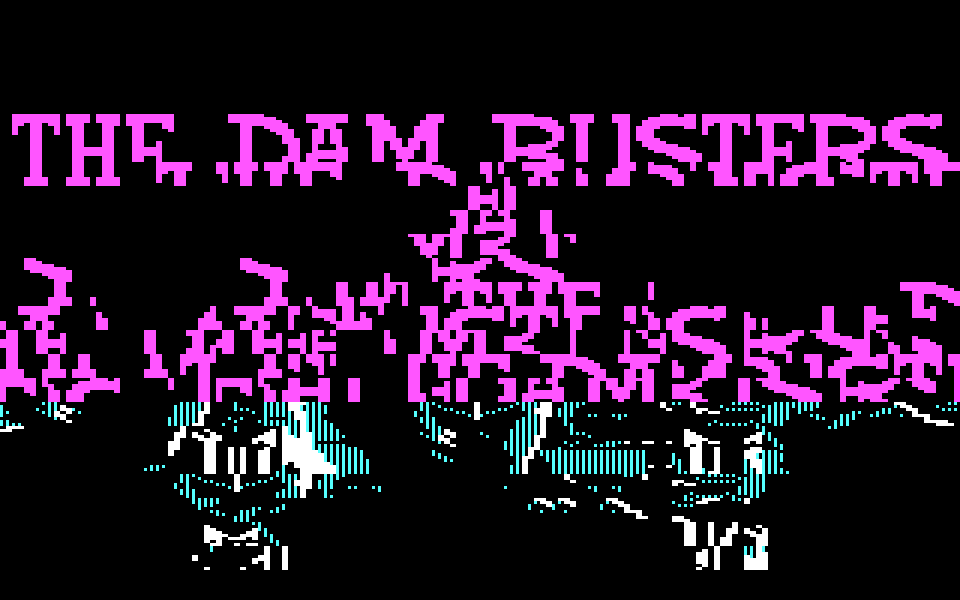
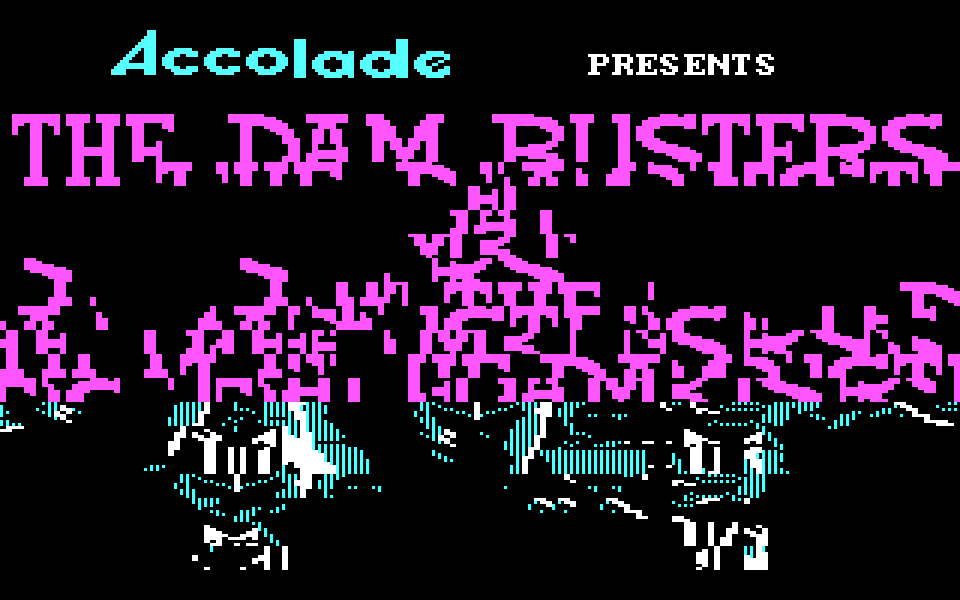
Dam Busters: display-list interpreter for menu screens + title header
Implemented the ten-opcode display-list bytecode interpreter at
dl_dispatch (0xDF18), enough of it to execute the four static screens
that had gauge boxes and menu frames drawn in bytecode rather than
sprite tiles. Handles opcodes 0 (end), 1 (bitmap blit via blit_rect),
2 (solid fill via blit_shape -- the mask byte packs 4 CGA pixels), 5
(sprite-at via draw_shape_row_flexible), 6/7 (clipped variants of
1/2). Opcodes 3/4 (wait_ticks, set_border_color) are no-ops in the
still.

Added:
  01-title-screen  -- now shows the "Accolade PRESENTS" header
                       (drawn by draw_display_list at 0xB4BF), matching
                       the reference.
  04-menu-cockpit  -- BOOSTER GAUGES + 4 dials, RPM GAUGES + 4 dials,
                       and the cyan panels for THROTTLES, BOOSTERS,
                       FIRE EXT. -- executed via draw_display_list at
                       SI=0x13A6, dl_string_base=0x1B57 per menu_main_init.
  10-menu-second   -- new: FUEL GAUGES + 4 dials with E/F markings,
                       FLAPS dial with U/D, LANDING GEAR + TRIM panels.
                       draw_display_list at 0x21D9, dl_string_base=0x25B1.
  11-flight-forward -- new: pilot's cockpit frame with cyan panels,
                        black windshield, instrument row (clock, horizon,
                        two round gauges). draw_display_list at 0x2E8E,
                        dl_string_base=0x3401.

The needle positions inside the gauge dials and the slider knobs on
[…]

Changed region(s): [[0.125, 0.06, 0.4688, 0.15], [0.5938, 0.09, 0.8125, 0.15]]

diff --git a/dam-busters/screenshots/generate.py b/dam-busters/screenshots/generate.py
@@ -123,11 +123,144 @@ def draw_text(px, text: str, blit_x: int, blit_y: int,
 
 
 def blit_rect(px, src_offset: int, w_bytes: int, h_rows: int,
-              blit_x: int, blit_y: int):
+              blit_x: int, blit_y: int, *, transparent_zero: bool = False):
     """Simplified `blit_rect` (0xDA39): copies w_bytes x h_rows region
     from `src_offset` at (blit_x*2, blit_y) as 2bpp CGA."""
     tile = decode_tile_2bpp(src_offset, w_bytes, h_rows)
-    blit_tile(px, tile, blit_x * 2, blit_y, transparent_zero=False)
+    blit_tile(px, tile, blit_x * 2, blit_y, transparent_zero=transparent_zero)
+
+
+# ---------------------------------------------------------------------
+# Display-list interpreter (draw_display_list at 0xDF0E)
+# ---------------------------------------------------------------------
+#
+# Ten opcodes at dl_dispatch (0xDF18).  Each opcode reads a small
+# parameter block after itself in the byte stream.  This is the machine
+# every phase's init and menu screen paints through -- we implement the
+# ones we need to reproduce the static screens: 0 (end), 1 (bitmap),
+# 2 (masked sprite via blit_shape) and 5 (sprite-at via text drawer).
+# Opcodes 3/4 (wait ticks, set border colour) are no-ops in the still.
+
+def draw_display_list(px, si: int, dl_string_base: int,
+                      sprite_base: int, verbose: bool = False):
+    """Python translation of draw_display_list at 0xDF0E."""
+    # Local state that mirrors the game's 0xD9A2..0xD9BE parameter block
+    state = {
+        "blit_x": 0,
+        "blit_y": 0,
+        "blit_width": 0,
+        "blit_height": 0,
+        "sprite_base": sprite_base,
+    }
+    step = 0
+    while True:
+        step += 1
+        opcode = data[si]
+        if verbose:
+            print(f"  dl@{si:04X} op={opcode:02X}")
+        if opcode == 0:
+            return
+        elif opcode == 1:
+            # dl_opcode_1_text (0xDF2C): 5 params + str_index
+            w      = data[si + 1]
+            h      = data[si + 2]
+            x      = data[si + 3]
+            y      = data[si + 4]
+            si_idx = data[si + 5]
+            # blit_src = *(word*)(dl_string_base + si_idx*2)
+            ptr = dl_string_base + si_idx * 2
+            blit_src = data[ptr] | (data[ptr + 1] << 8)
+            blit_rect(px, blit_src, w, h, x, y)
+            si += 6
+        elif opcode == 2:
+            # dl_opcode_2_sprite (0xDF62) + blit_shape (0xDEA8):
+            # solid fill of a rectangle -- NOT an image blit.  The mask
+            # byte encodes two CGA pixel pairs (high and low nibbles).
+            # rep stosb fills CX bytes with the full mask byte per row.
+            stride = data[si + 1]
+            h      = data[si + 2]
+            x      = data[si + 3]
+            y      = data[si + 4]
+            mask   = data[si + 5]
+            # blit_x is in 2-pixel units.  A mask byte packs 4 pixels:
+            # bits (7,6)=pixel0, (5,4)=pixel1, (3,2)=pixel2, (1,0)=pixel3.
+            pixel_x_start = x * 2
+            for row in range(h):
+                pixel_y = y + row
+                if pixel_y < 0 or pixel_y >= CGA_H:
+                    continue
+                for byte_idx in range(stride):
+                    for sub in range(4):
+                        pixel_x = pixel_x_start + byte_idx * 4 + sub
+                        if pixel_x < 0 or pixel_x >= CGA_W:
+                            continue
+                        colour = (mask >> ((3 - sub) * 2)) & 0x3
+                        px[pixel_x, pixel_y] = PALETTE[colour]
+            si += 6
+        elif opcode == 3:
+            # wait_ticks -- ignore for the still
+            si += 3
+        elif opcode == 4:
+            # set_border_color -- ignore
+            si += 2
+        elif opcode == 5:
+            # dl_opcode_5_sprite_at (0xDFAA): draws text via
+            # draw_shape_row_flexible at (x, y).  si+1..3 = x, y, count;
+            # si+4..5 = pointer to text data.
+            x     = data[si + 1]
+            y     = data[si + 2]
+            count = data[si + 3]
+            text_ptr = data[si + 4] | (data[si + 5] << 8)
+            if count == 0:
+                count = (0xA0 - x) // 4
+            # Read the null-terminated text (up to count chars) and draw
+            # it using the font at state["sprite_base"].
+            text = []
+            for i in range(count):
+                b = data[text_ptr + i]
+                if b == 0:
+                    break
+                text.append(chr(b) if b < 128 else "?")
+            draw_text(px, "".join(text), blit_x=x, blit_y=y,
+                      colour=WHITE, font_base=state["sprite_base"])
+            si += 6
+        elif opcode == 6:
+            # text_clip -- similar to op1 but clipped; we approximate as op1
+            w      = data[si + 1]
+            h      = data[si + 2]
+            x      = data[si + 3]
+            y      = data[si + 4]
+            si_idx = data[si + 5]
+            ptr = dl_string_base + si_idx * 2
+            blit_src = data[ptr] | (data[ptr + 1] << 8)
+            blit_rect(px, blit_src, w, h, x, y)
+            si += 6
+        elif opcode == 7:
+            # sprite_clip -- approximate as op2
+            w      = data[si + 1]
+            h      = data[si + 2]
+            x      = data[si + 3]
+            y      = data[si + 4]
+            si_idx = data[si + 5]
+            ptr = dl_string_base + si_idx * 2
+            blit_src = data[ptr] | (data[ptr + 1] << 8)
+            blit_rect(px, blit_src, w, h, x, y, transparent_zero=True)
+            si += 6
+        else:
+            # Opcodes 8, 9 -- extra sprite variants; approximate as op1
+            w      = data[si + 1] if si + 1 < len(data) else 0
+            h      = data[si + 2] if si + 2 < len(data) else 0
+            x      = data[si + 3] if si + 3 < len(data) else 0
+            y      = data[si + 4] if si + 4 < len(data) else 0
+            si_idx = data[si + 5] if si + 5 < len(data) else 0
+            ptr = dl_string_base + si_idx * 2
+            blit_src = data[ptr] | (data[ptr + 1] << 8)
+            if 0 < blit_src < len(data) and w > 0 and h > 0:
+                blit_rect(px, blit_src, w, h, x, y, transparent_zero=True)
+            si += 6
+        if step > 500:
+            print(f"  [display list ran past {step} ops, aborting]")
+            return
 
 
 # --- Helpers -----------------------------------------------------------
@@ -155,7 +288,11 @@ def render_title_screen():
     img = new_frame()
     px = img.load()
 
-    # Block A: 12 rows of 40 sprites, sprite_base 0xB544, y=0x26..
+    # Step 1: draw the "Accolade PRESENTS" header via display list at 0xB4BF
+    # with dl_string_base at 0xB4D2 -- exactly what draw_title_screen does.
+    draw_display_list(px, si=0xB4BF, dl_string_base=0xB4D2, sprite_base=0xF902)
+
+    # Step 2: 12 rows of 40 sprites, sprite_base 0xB544
     sprite_row_data = 0xAFD7
     y = 0x26
     for _ in range(12):
@@ -163,7 +300,7 @@ def render_title_screen():
         sprite_row_data += 0x28
         y += 8
 
-    # Block B: 7 more rows, sprite_base 0xC4E4
+    # Step 3: 7 more rows, sprite_base 0xC4E4
     for _ in range(7):
         draw_sprite_row_2x8(px, sprite_row_data, 0x28, 0xC4E4, 0, y)
         sprite_row_data += 0x28
@@ -286,30 +423,40 @@ def render_map_screen(region_idx: int = 0, suffix: str = "great-britain"):
 # positions the game's own row-counter table at 0x1682/0x1683 gives.
 
 def render_cockpit_menu():
+    """menu_main_init draws its whole layout via draw_display_list at
+    SI=0x13A6 with dl_string_base=0x1B57 and sprite_base=0xF902 (font).
+    Executing that gives us the four gauge banks + sliders + labels
+    the phase-5 screen shows."""
     img = new_frame()
     px = img.load()
 
-    draw_text(px, "COCKPIT CONTROLS", blit_x=32, blit_y=10, colour=MAGENTA)
-
-    labels = [
-        "BOOSTER GAUGES",
-        "RPM GAUGES",
-        "THROTTLES",
-        "FIRE EXT.",
-        "BOOSTERS",
-    ]
-    y = 40
-    for lab in labels:
-        draw_text(px, lab, blit_x=32, blit_y=y, colour=CYAN)
-        y += 20
-
-    # Four engine indicators
-    for i in range(4):
-        draw_text(px, f"E{i+1}", blit_x=100 + i * 12, blit_y=170, colour=WHITE)
-
-    draw_text(px, "USE ARROW KEYS", blit_x=32, blit_y=190, colour=WHITE)
+    draw_display_list(px, si=0x13A6, dl_string_base=0x1B57, sprite_base=0xF902)
 
     save(img, "04-menu-cockpit.png")
+
+
+def render_menu_second():
+    """menu_second_init draws via draw_display_list at SI=0x21D9 with
+    dl_string_base=0x25B1.  This is the FUEL GAUGES / FLAPS / LANDING
+    GEAR / TRIM page (phase 6)."""
+    img = new_frame()
+    px = img.load()
+
+    draw_display_list(px, si=0x21D9, dl_string_base=0x25B1, sprite_base=0xF902)
+
+    save(img, "10-menu-second.png")
+
+
+def render_flight_forward():
+    """flight_forward_init draws via draw_display_list at SI=0x2E8E.
+    This is the pilot's forward cockpit view (phase 0)."""
+    img = new_frame()
+    px = img.load()
+
+    # dl_string_base = 0x3401 per flight_forward_init (0x309F).
+    draw_display_list(px, si=0x2E8E, dl_string_base=0x3401, sprite_base=0xF902)
+
+    save(img, "11-flight-forward.png")
 
 
 # =====================================================================
@@ -467,6 +614,8 @@ if __name__ == "__main__":
     render_map_screen(2, "north-germany")
     render_map_screen(4, "eastern-france")
     render_cockpit_menu()
+    render_menu_second()
+    render_flight_forward()
     render_bomb_options()
     render_results()
     render_crash_messages()

diff --git a/dam-busters/screenshots/README.md b/dam-busters/screenshots/README.md
@@ -14,29 +14,27 @@ noise.
 
 ## What each image is
 
-### Faithful reconstructions — pixels come from the game's own sprite data
+### Faithful reconstructions — pixels come from the game's own data through the game's own drawing routines
 
 | file | what it is | drawn by |
 |---|---|---|
-| `01-title-screen.png` | the title -- "THE DAM BUSTERS" logo, Lancaster silhouette, dam scenery | `draw_title_screen` at `0xB4D8`, verbatim: 12 rows × 40 sprites from `sprite_base_bank` (`0xB544`) then 7 more from `0xC4E4`. Missing only the "Accolade PRESENTS" header at the very top (drawn by the display-list bytecode at `0xB4BF` which this generator does not interpret) |
+| `01-title-screen.png` | the title: `Accolade PRESENTS THE DAM BUSTERS`, Lancaster silhouette, dam scenery | `draw_title_screen` at `0xB4D8` verbatim: `draw_display_list` at `0xB4BF` for the header (opcode 1 bitmap blits of the pre-rendered "Accolade" script and "PRESENTS" text) then 12 rows × 40 sprites from `sprite_base_bank` (`0xB544`) then 7 more from `0xC4E4` |
 | `03-map-screen-*.png` | the six-region raid map | `draw_map_border` at `0x2E0`; border sprites at `0xE632`, corners from `0xE9F2..0xE9FE`, region terrain sprites via the pointer table at `0xED26`, region titles via `city_name_pointers` (`0x150`) |
+| `04-menu-cockpit.png` | phase-5 cockpit controls with `BOOSTER GAUGES` (4 dials), `RPM GAUGES` (4 dials), `THROTTLES`, `BOOSTERS`, `FIRE EXT.` panels | `menu_main_init` at `0x174B`, executing `draw_display_list` at `SI=0x13A6` with `dl_string_base=0x1B57` |
+| `10-menu-second.png` | phase-6 auxiliary controls: `FUEL GAUGES` (4 dials), `FLAPS` dial, `LANDING GEAR`, `TRIM` | `menu_second_init` at `0x23B9`, executing `draw_display_list` at `SI=0x21D9` with `dl_string_base=0x25B1` |
+| `11-flight-forward.png` | phase-0 pilot's forward view: cyan cockpit frame with instrument panel | `flight_forward_init` at `0x309F`, executing `draw_display_list` at `SI=0x2E8E` with `dl_string_base=0x3401` |
 | `08-sprite-atlas.png` | `sprite_base_bank` at `0xB544` dumped as an 8×8 tile sheet | the 456 tiles the game draws from |
 | `09-font-sheet.png` | the ASCII font at `0xF902` | the 8×8 1bpp glyphs `draw_shape_row_flexible` at `0xD731` reads |
 
-### Text-faithful mockups — strings and layout from the reading, no sprite gauges
+### Text-faithful mockups — strings and layout from the reading
 
-The game's real menus and screens have graphical gauges, sliders and
-indicators (see the copyrighted reference images in `../reference/`,
-gitignored).  These reconstructions use the correct **text**, the
-correct **font** (rendered from the game's own 1bpp glyph data), and
-the correct **CGA palette**, but they do not reproduce the gauge/
-slider sprites.  Doing that faithfully would need a full display-list
-interpreter — that is the port, not the reading.
+These use the game's own text strings and font but do not run their
+routine's own display list -- they compose plausible layouts around
+the correct data.
 
 | file | what it is | how it was composed |
 |---|---|---|
 | `02-intelligence-report.png` | pre-mission briefing with a plausible pick | `generate_intelligence_report` at `0x9EE`; strings at `0x8E8..0x93B`, cities at `0x966..0x9B8`, font at `0xF902` |
-| `04-menu-cockpit.png` | phase-5 controls page (labels only, no gauges) | labels from the doc for menu_main_init: `BOOSTER GAUGES`, `RPM GAUGES`, `THROTTLES`, `FIRE EXT.`, `BOOSTERS` |
 | `05-bomb-options.png` | phase-3 YES/NO toggles | `bomb_options_init` / `draw_bomb_options` at `0x4C07` |
 | `06-mission-report.png` | phase-7 scoreboard | `results_step` at `0x8720`; labels at `0x83D1..0x843E`; values are illustrative |
 | `07-crash-messages.png` | the eight end-run reasons in the file, all at once | strings at `0x7F3C..0x7FD5` picked at run time via `end_run_message_table` at `0x7FE1` |
@@ -64,20 +62,18 @@ CGA palette 1 throughout: **black / cyan / magenta / white**.
   screenshot of a copyrighted 1984 game is still the game.  Any reference
   images used to check this generator live under `../reference/` which
   is gitignored per the root `CLAUDE.md`.
-- **Sprites decoded to their pixel-perfect final positions on every
-  screen.**  This would require executing the display-list bytecode at
-  `0xB4BF` (title), `0x13A6` (menu_main), `0x21D9` (menu_second), etc.
-  through the ten-opcode interpreter at `dl_dispatch` (`0xDF18`).  That
-  is a whole subsystem; the reading documents it in
-  [`../docs/03-the-code.md`](../docs/03-the-code.md#6-draw_display_list--a-bytecode-interpreter-in-eight-instructions)
-  but reproducing every screen bytecode-perfect is the *port*, not the
-  reading.
-- **The bomb-run, forward-flight and rear-gunner views** (phases 0, 1,
-  2).  These are real-time 3D scenes composed from the object pool
-  through `render_object_pool` and `project_point_2d` in a way that
-  depends on frame-time inputs.  A single-frame static reconstruction
-  is possible but was not built — this set covers the static screens
-  where the reading is easiest to verify.
+- **Runtime-driven gauge needles and slider positions.**  The cockpit
+  menu's frame (the cyan gauge boxes with their dial rings) comes from
+  the display list, but which position each needle points to comes from
+  `engine_slider_top`, `engine_slider_bottom`, `engine_load`, etc. --
+  runtime state written per frame by the physics.  The screenshots show
+  the panel at its at-init state.
+- **The bomb-run, forward-flight and rear-gunner scenes** in-flight.
+  The cockpit frame (`11-flight-forward.png`) is faithful, but the sky
+  through the windshield is a real-time 3D scene composed from the
+  object pool through `render_object_pool` and `project_point_2d` in a
+  way that depends on frame-time inputs.  Reproducing the scene needs
+  the port.
 
 ## Regenerate
 
